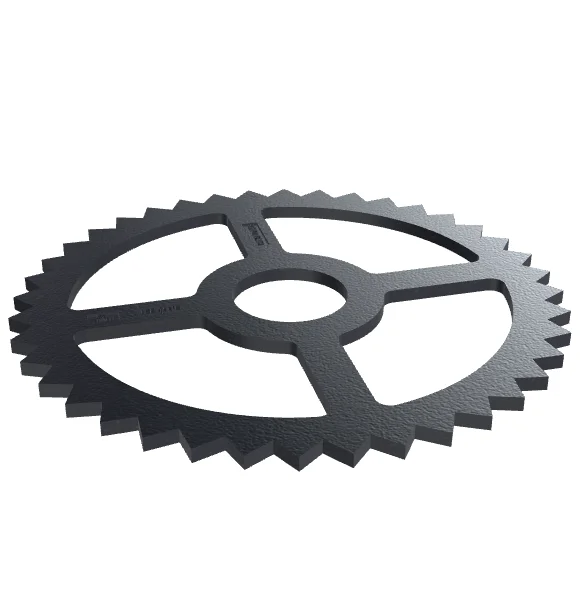
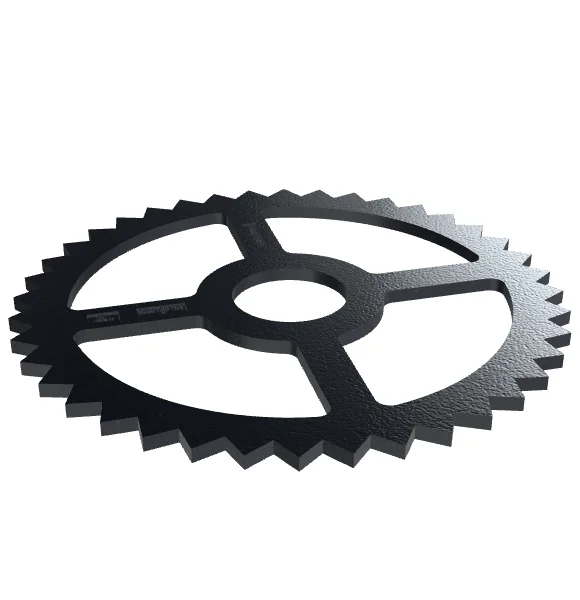
feat: Slightly glossier painted cast iron for deeper blacks and highlights; regenerate posters

Changed region(s): [[0.031, 0.3, 0.9931, 0.78]]

diff --git a/catalogue/catalogue.js b/catalogue/catalogue.js
@@ -95,6 +95,10 @@ function createCard(p) {
   mv.setAttribute('environment-image', ENV_URL); // studio HDRI: gives the cast iron real depth and highlights
   mv.setAttribute('exposure', '1.8'); // same lighting as the poster thumbnails
   mv.setAttribute('tone-mapping', 'neutral');
+  // The painted cast-iron material is a touch too matte under studio light: a bit more gloss gives deep blacks and real highlights
+  mv.addEventListener('load', () => {
+    for (const m of mv.model?.materials ?? []) if (/Painted/i.test(m.name)) m.pbrMetallicRoughness.setRoughnessFactor(0.6);
+  });
   mv.setAttribute('camera-orbit', p.orbit ?? '35deg 62deg auto'); // per product: the text cast on some models reads best from the front
   mv.setAttribute('min-camera-orbit', 'auto 0deg auto'); // allow looking from above and below
   mv.setAttribute('max-camera-orbit', 'auto 180deg auto');
